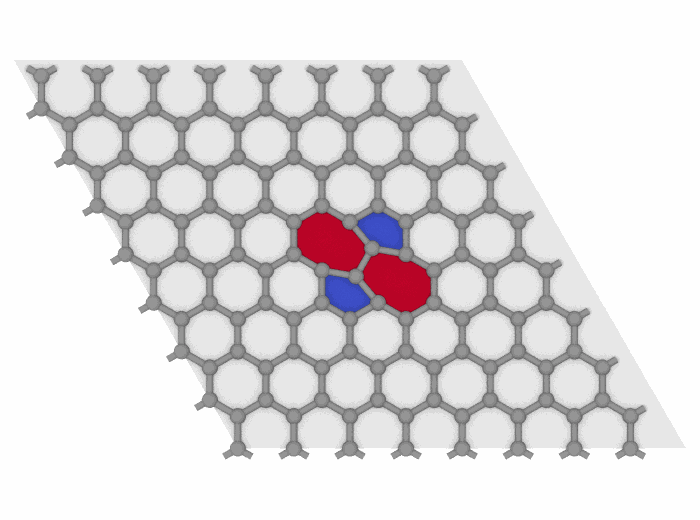
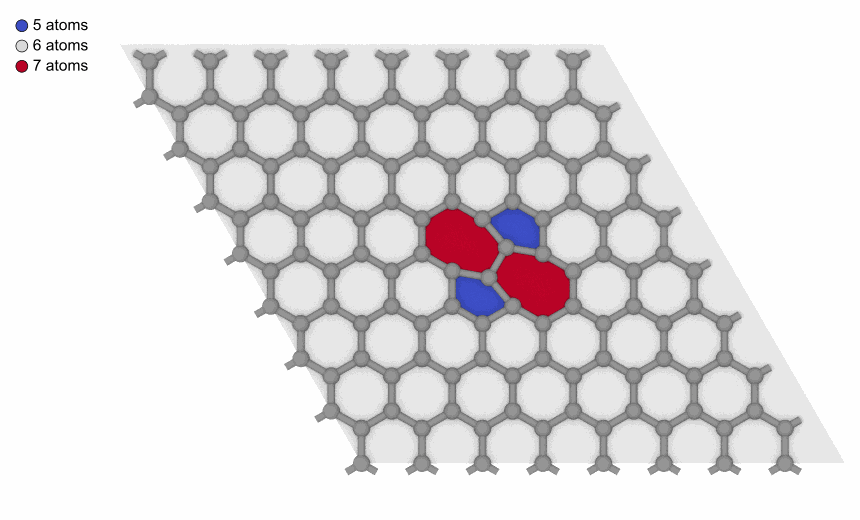
Rings with a legend of their sizes; dislocations with a legend that names the atoms and the kinds of lines drawn

Changed region(s): [[0.0, 0.0308, 0.93, 0.9231]]

diff --git a/docs/user-guide/analysis/dislocations.md b/docs/user-guide/analysis/dislocations.md
@@ -68,32 +68,47 @@ tetrahedron.lines[0].junctions  # the junctions at its first and last point
 
 The partials with the stacking faults between them, and the tetrahedron,
 drawn by the [renderer](../visualization/rendering.md) in the colors of
-their families:
+their families, with a legend of the atoms and the lines shown:
 
 ```python
 from mdapy.visualization import render, write_png
 
+kinds = {"1/2<110>": "perfect", "1/6<112>": "Shockley", "1/6<110>": "stair-rod",
+         "1/3<100>": "Hirth", "1/3<111>": "Frank"}  # fmt: skip
+
+
+def legend(found, shown):
+    """The structures of the atoms shown and the families of the lines."""
+    names = {found.names[k]: found.colors[k] for k in np.unique(found.structure[shown])}
+    palette = DislocationAnalysis.FAMILY_COLORS[found.crystal]
+    for family in sorted({line.family for line in found.lines}):
+        names[f"{kinds.get(family, 'other')} {family}"] = palette[family]
+    return names
+
+
+hcp = result.structure == result.names.index("hcp")
+not_fcc = tetrahedron.structure != tetrahedron.names.index("fcc")
 pictures = [
     render(
         system,
-        atoms=result.structure == result.names.index("hcp"),
+        atoms=hcp,
         color=result,
-        legend=True,
+        legend=legend(result, hcp),
         radius=0.8,
         dislocations=result,
         burgers_vectors=True,
         burgers_scale=5,
-        width=500,
+        width=640,
         height=500,
     ),
     render(
         relaxed,
-        atoms=tetrahedron.structure != tetrahedron.names.index("fcc"),
+        atoms=not_fcc,
         color=tetrahedron,
-        legend=True,
+        legend=legend(tetrahedron, not_fcc),
         radius=0.6,
         dislocations=tetrahedron,
-        width=500,
+        width=640,
         height=500,
     ),
 ]

diff --git a/docs/user-guide/analysis/rings.md b/docs/user-guide/analysis/rings.md
@@ -30,9 +30,10 @@ defect = defect.with_columns(rings)  # the number of rings of each atom
 
 mesh, ring = rings.polygons(defect)  # a fan of triangles about each ring
 size = rings.sizes[ring]
+named = {f"{n} atoms": colormap([n], "coolwarm", (5, 7))[0] for n in (5, 6, 7)}
 render(defect, "images/rings.png", radius=0.35, bonds=1.7, mesh=mesh,
        mesh_color=colormap(size, "coolwarm", (5, 7)), view="top", box=False,
-       width=700, height=520)  # fmt: skip
+       legend=named, width=860, height=520)  # fmt: skip
 ```
 
 ![Rings of a Stone–Wales defect](images/rings.png)
